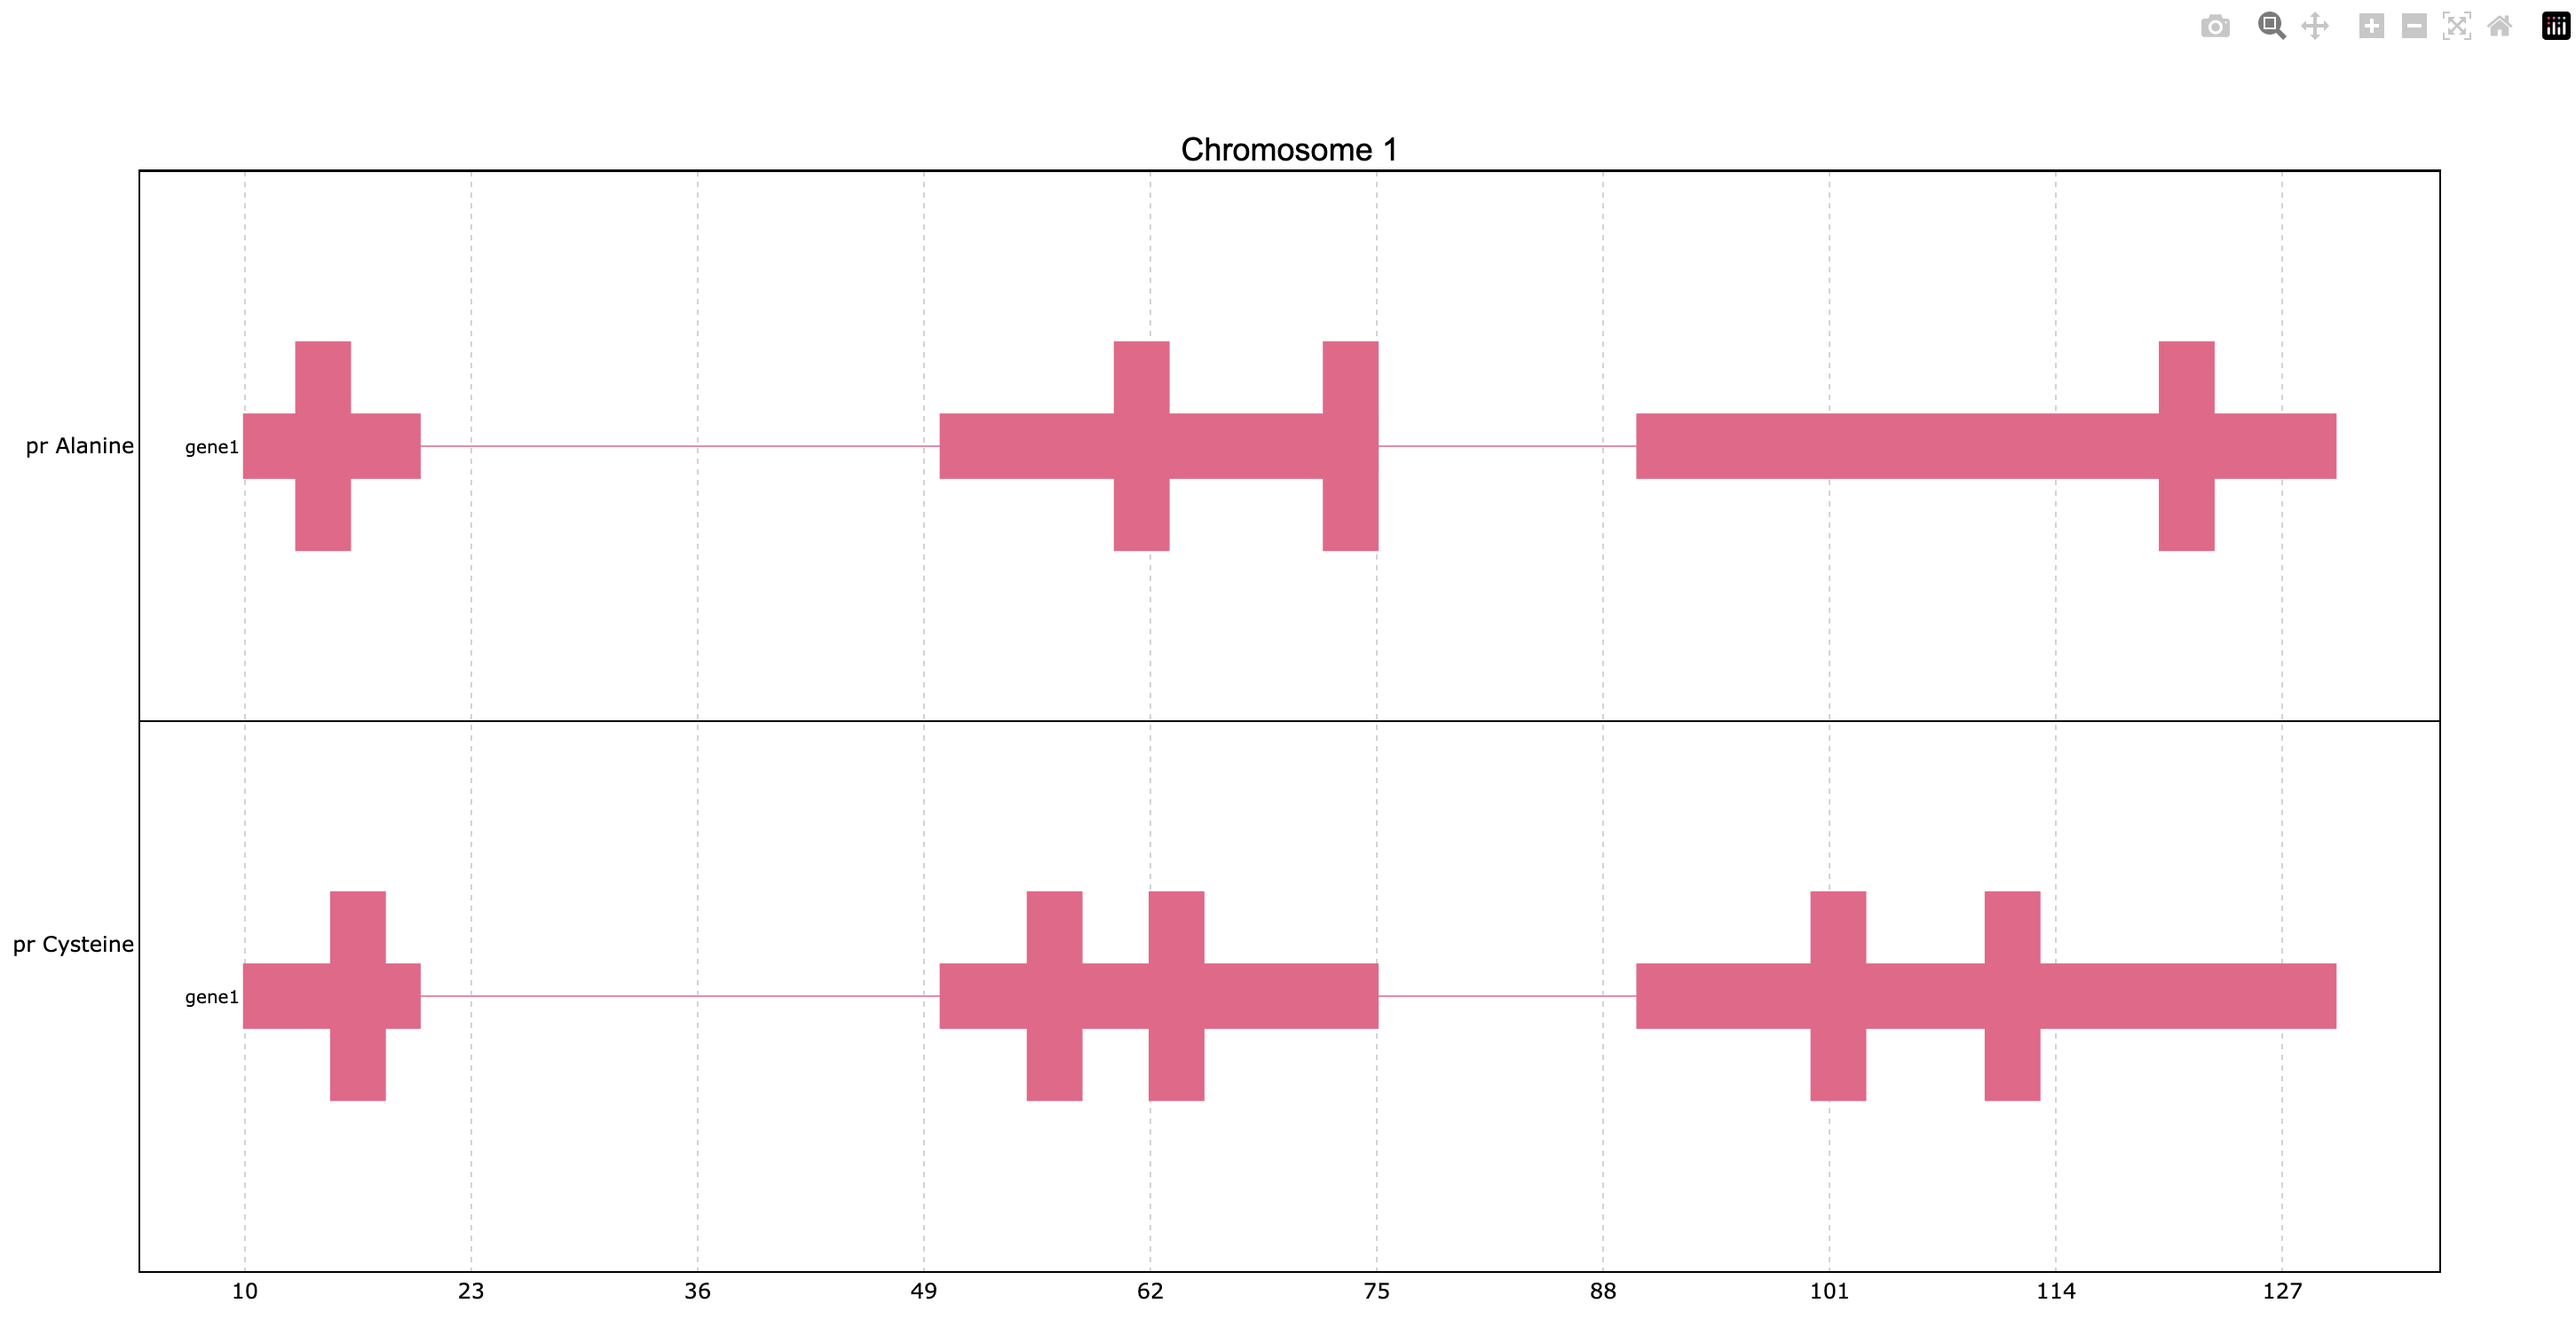
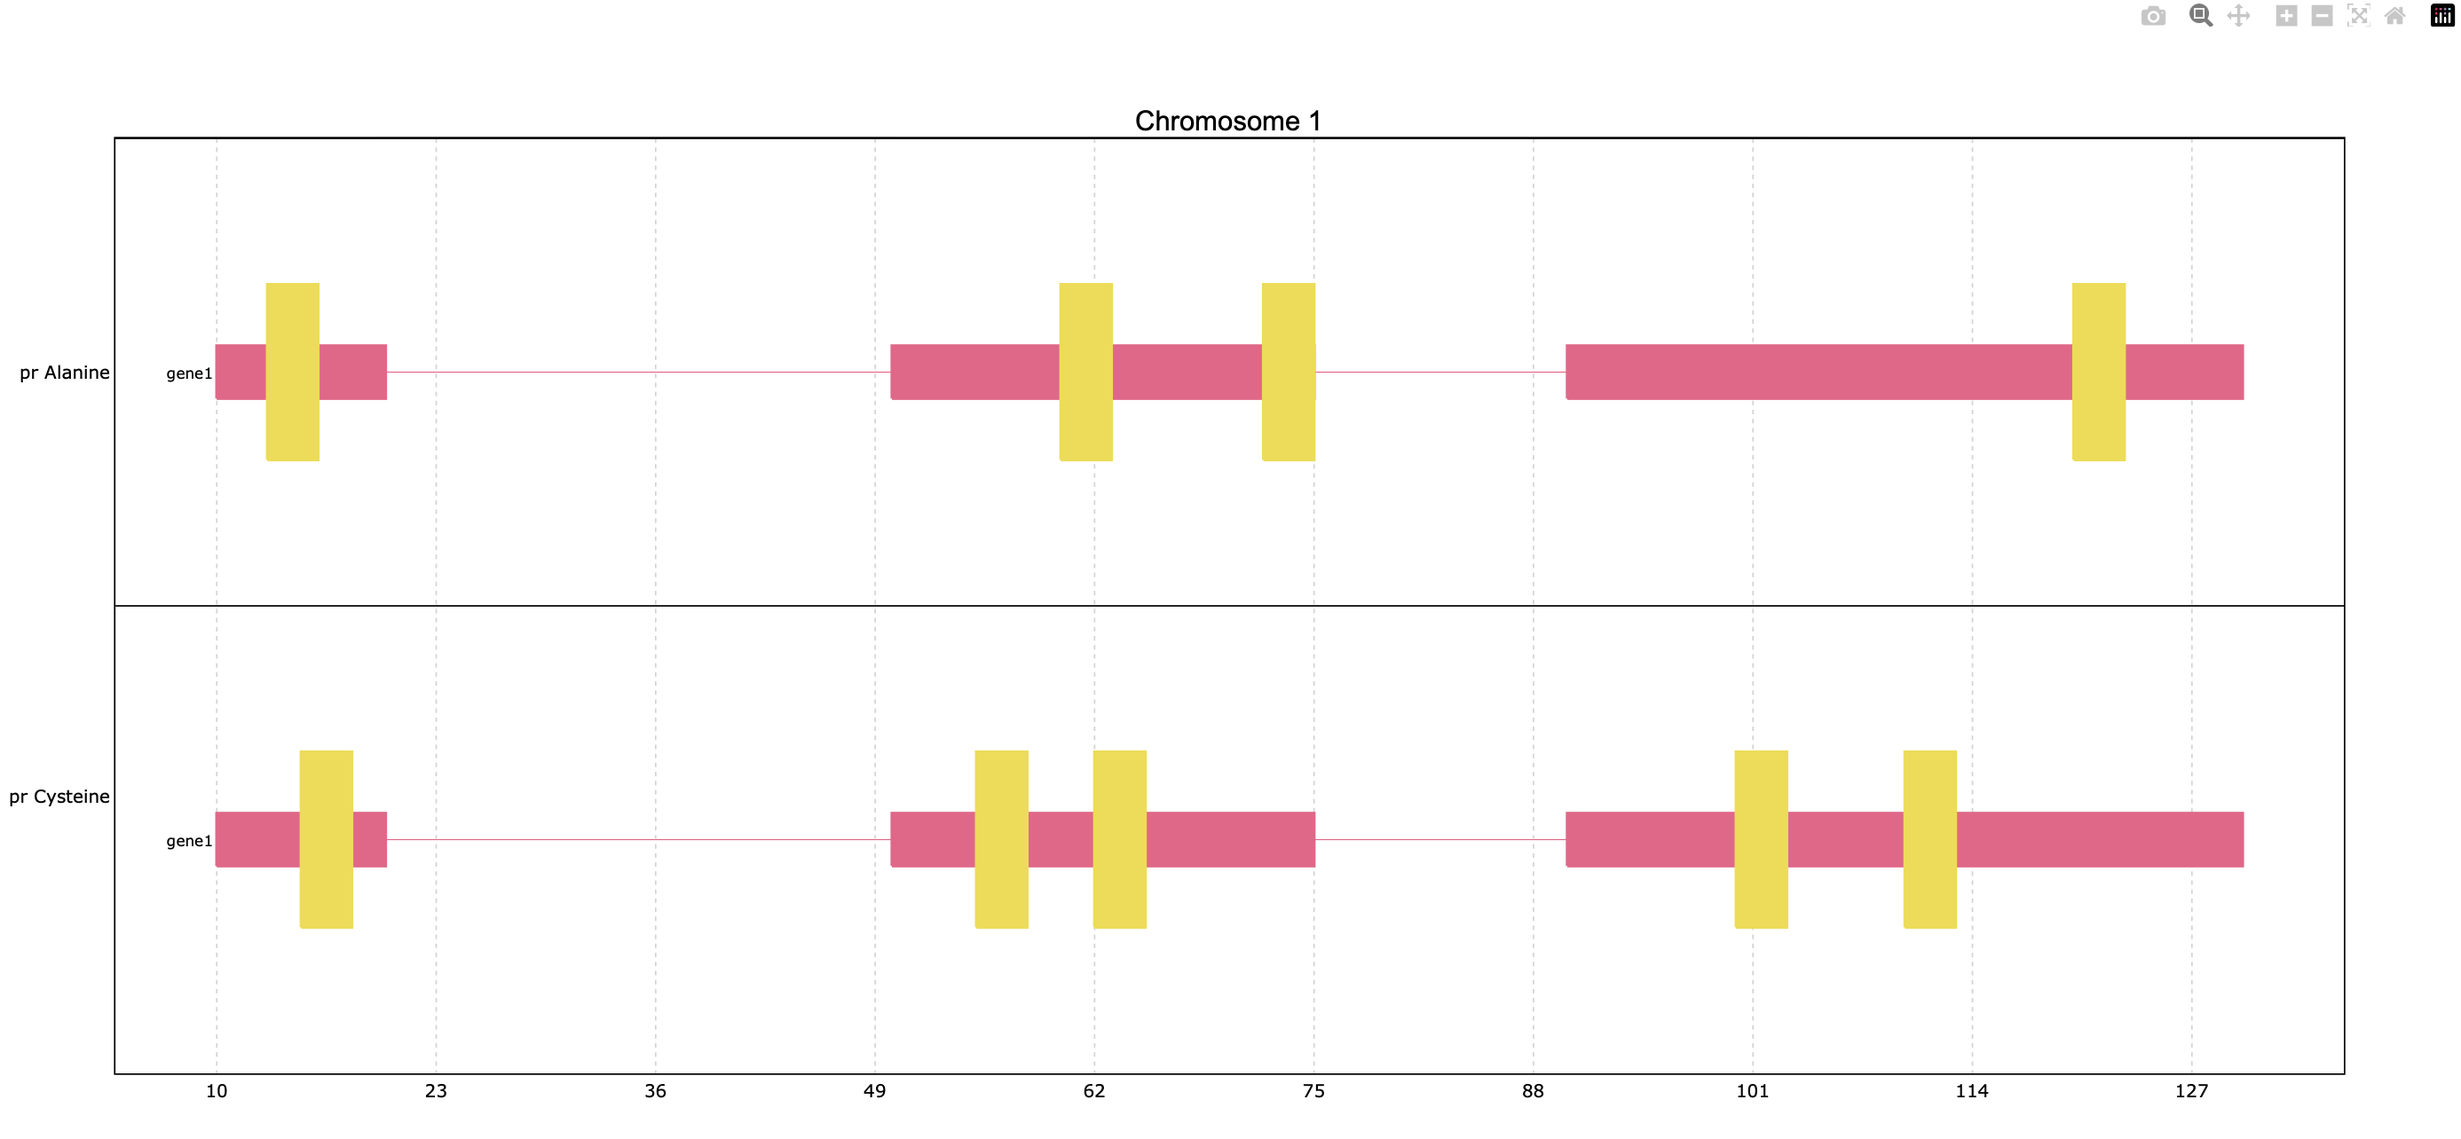
docs upd for img

diff --git a/docs/tutorial.rst b/docs/tutorial.rst
@@ -114,6 +114,8 @@ The ``limits`` parameter accepts different input types:
 
 .. image:: images/prp_rtd_04.png
 
+To plot with specified limits, use the following code:
+
     >>> prp.plot(p, limits=(0,300))
 
 .. image:: images/prp_rtd_05.png
@@ -153,7 +155,13 @@ or an actual Matplotlib or Plotly colormap object. Below, we invoke the "Dark2" 
 
 .. image:: images/prp_rtd_08.png
 
-.. @maxtico: please add a plot showcasing the legend=True option. Add some short text before it
+To improve the clarity of the plot, we can enable a legend that labels each color, making it easier 
+to interpret the intervals based on their assigned colors. This can be done by setting the 
+**legend** parameter of :func:`plot <pyranges_plot.plot>` as True:
+
+    >>> prp.plot(p, colormap="Dark2", legend=True)
+
+.. image:: images/prp_rtd_20.png
 
 In this section, we have seen how to color intervals based on their attributes.
 Next, we will see how to customize the appearance of the plot itself.
@@ -273,7 +281,7 @@ documentation. For example, here's the "dark" theme:
     >>> prp.set_theme('dark')
     >>> prp.plot(p)
 
-.. @maxtico: please add this plot
+.. image:: images/prp_rtd_16.png
 
 To reset the theme, you can resort again to :func:`reset_options <pyranges_plot.reset_options>`.
 
@@ -288,11 +296,9 @@ To instead display one transcript per row, set the ``packed`` parameter as ``Fal
 
 .. code-block::
 
-    prp.plot(p, packed=False, legend = True)
+    prp.plot(p, packed=False, legend = False)
 
 .. image:: images/prp_rtd_09.png
-
-.. @maxtico: please remove legend from text and replace the plot accordingly
 
 
 Pyranges_plot offers the option to reduce horizontal space, occupied by introns or intergenic regions,
@@ -437,7 +443,7 @@ Let's see an example with two PyRanges objects, mapping the occurrences of two a
 
     prp.plot([p_ala, p_cys])
 
-.. @maxtico: please make this plot
+.. image:: images/prp_rtd_17.png
 
 When providing multiple PyRanges objects, it is useful to differentiate them in the plot. The ``y_labels`` parameter
 allows to provide a list of strings, one for each PyRanges object, to be displayed on the left side of the plot:
@@ -449,7 +455,7 @@ allows to provide a list of strings, one for each PyRanges object, to be display
         y_labels=["pr Alanine", "pr Cysteine"]
     )
 
-.. @maxtico: make this plot
+.. image:: images/prp_rtd_18.png
 
 Customizing depth and thickness
 -------------------------------
@@ -469,13 +475,14 @@ closer the interval will be to the top of the plot, ensuring its visibility:
         depth_col="depth"
     )
 
-.. @maxtico: make this plot
+.. image:: images/prp_rtd_19.png
 
 Another way to highlight overlapping regions is by playing with the height (or thickness) of the blocks representing
 intervals. This is achieved by using the ``thickness_col`` parameter, which defines a data column name whose values
 determine thickness of the corresponding intervals:
 
 .. code-block::
+
     prp.plot(
         [p_ala, p_cys],
         id_col="id",
@@ -484,10 +491,7 @@ determine thickness of the corresponding intervals:
         thickness_col="trait1",
     )
 
-
 .. image:: images/prp_rtd_11.png
-
-.. @maxtico: replace this last plot (I changed the code but didn't update the plot)
 
 
 Additional information: tooltips and titles
